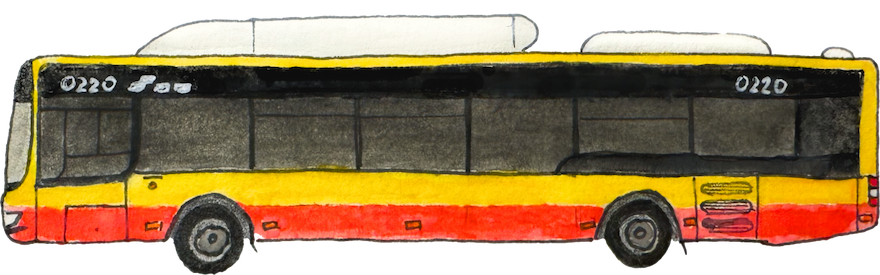
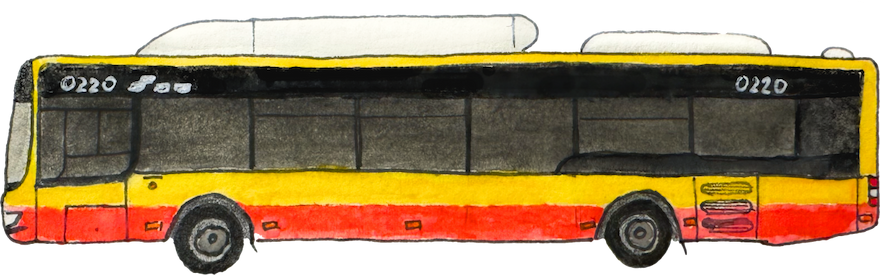
set `illustration_height`

diff --git a/_layouts/letter.html b/_layouts/letter.html
@@ -22,9 +22,10 @@ noFooter: true
         <div class="letter-paper__illustration">
           <img src="/i/letters/{{ page.illustration }}"
                width="{{ page.illustration_width | default: 300 }}"
+               {%- if page.illustration_height %}height="{{ page.illustration_height }}"{% endif %}
                {%- if page.class %}
                  class="letter-paper__img letter-paper__img--{{ page.class }}"
-               {% endif %}
+               {%- endif %}
                alt="">
         </div>
         {%- endif %}

diff --git a/_letters/3.md b/_letters/3.md
@@ -6,6 +6,7 @@ permalink: /letters/3/
 date_published: "4 березня 2024 р."
 illustration: "bus.png"
 illustration_width: 440
+illustration_height: 138
 ---
 
 Поїхали зі мною на автобусі? Ми з тобою вже багато їздили, але сьогодні пропоную звернути увагу на деталі.
@@ -14,7 +15,7 @@ illustration_width: 440
 
 Зовсім недавно наш автобус ретельно підготували у рейс. Його вимили, прибрали і заправили паливом. Трохи раніше хтось перевірив тиск у колесах, замінив масло і всілякі витратні матеріали, а також переконався, що гальма та інші важливі системи працюють справно.
 
-А ще раніше автобус зібрали на заводі. Безліч компонентів спроєктували, виробили, привезли з різних куточків світу на одну територію, і поєднали разом, щоб вийшла така чудова машина.
+А ще раніше автобус зібрали на заводі. Безліч компонентів спроєктували, виробили, привезли з різних куточків світу на одну територію, і поєднали разом, щоб вийшла така хороша машина.
 
 І про кожну деталь, від тканини на сидіннях до внутрішніх частин двигуна, хтось подбав.
 

diff --git a/_letters/2.md b/_letters/2.md
@@ -6,6 +6,7 @@ permalink: /letters/2/
 date_published: "8 лютого 2024 р."
 illustration: "treasure-chest.png"
 illustration_width: 200
+illustration_height: 196
 ---
 
 Мені подобається думати, що всі люди, яких я зустрічаю на своєму шляху, є справжніми скарбницями.
